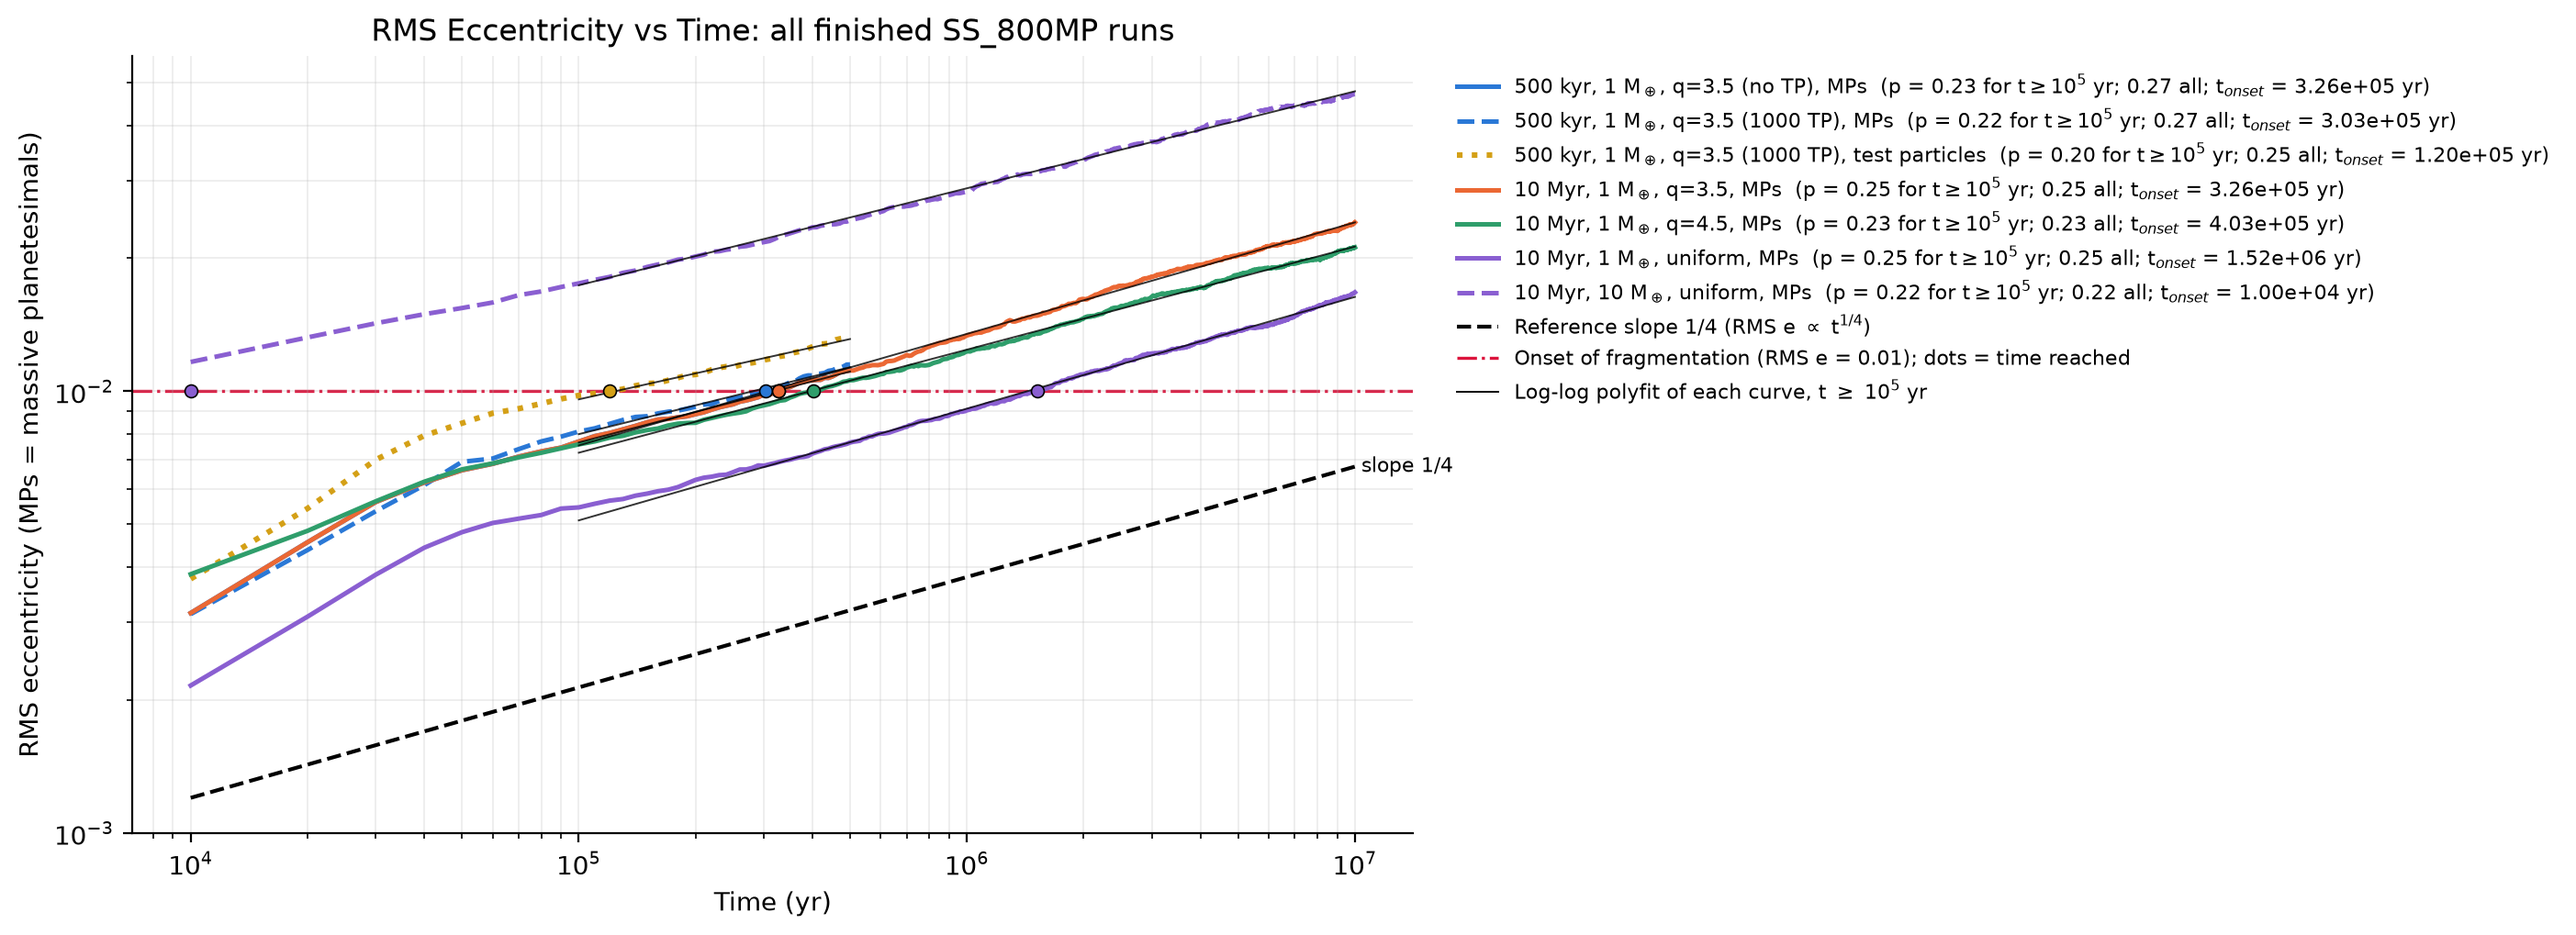
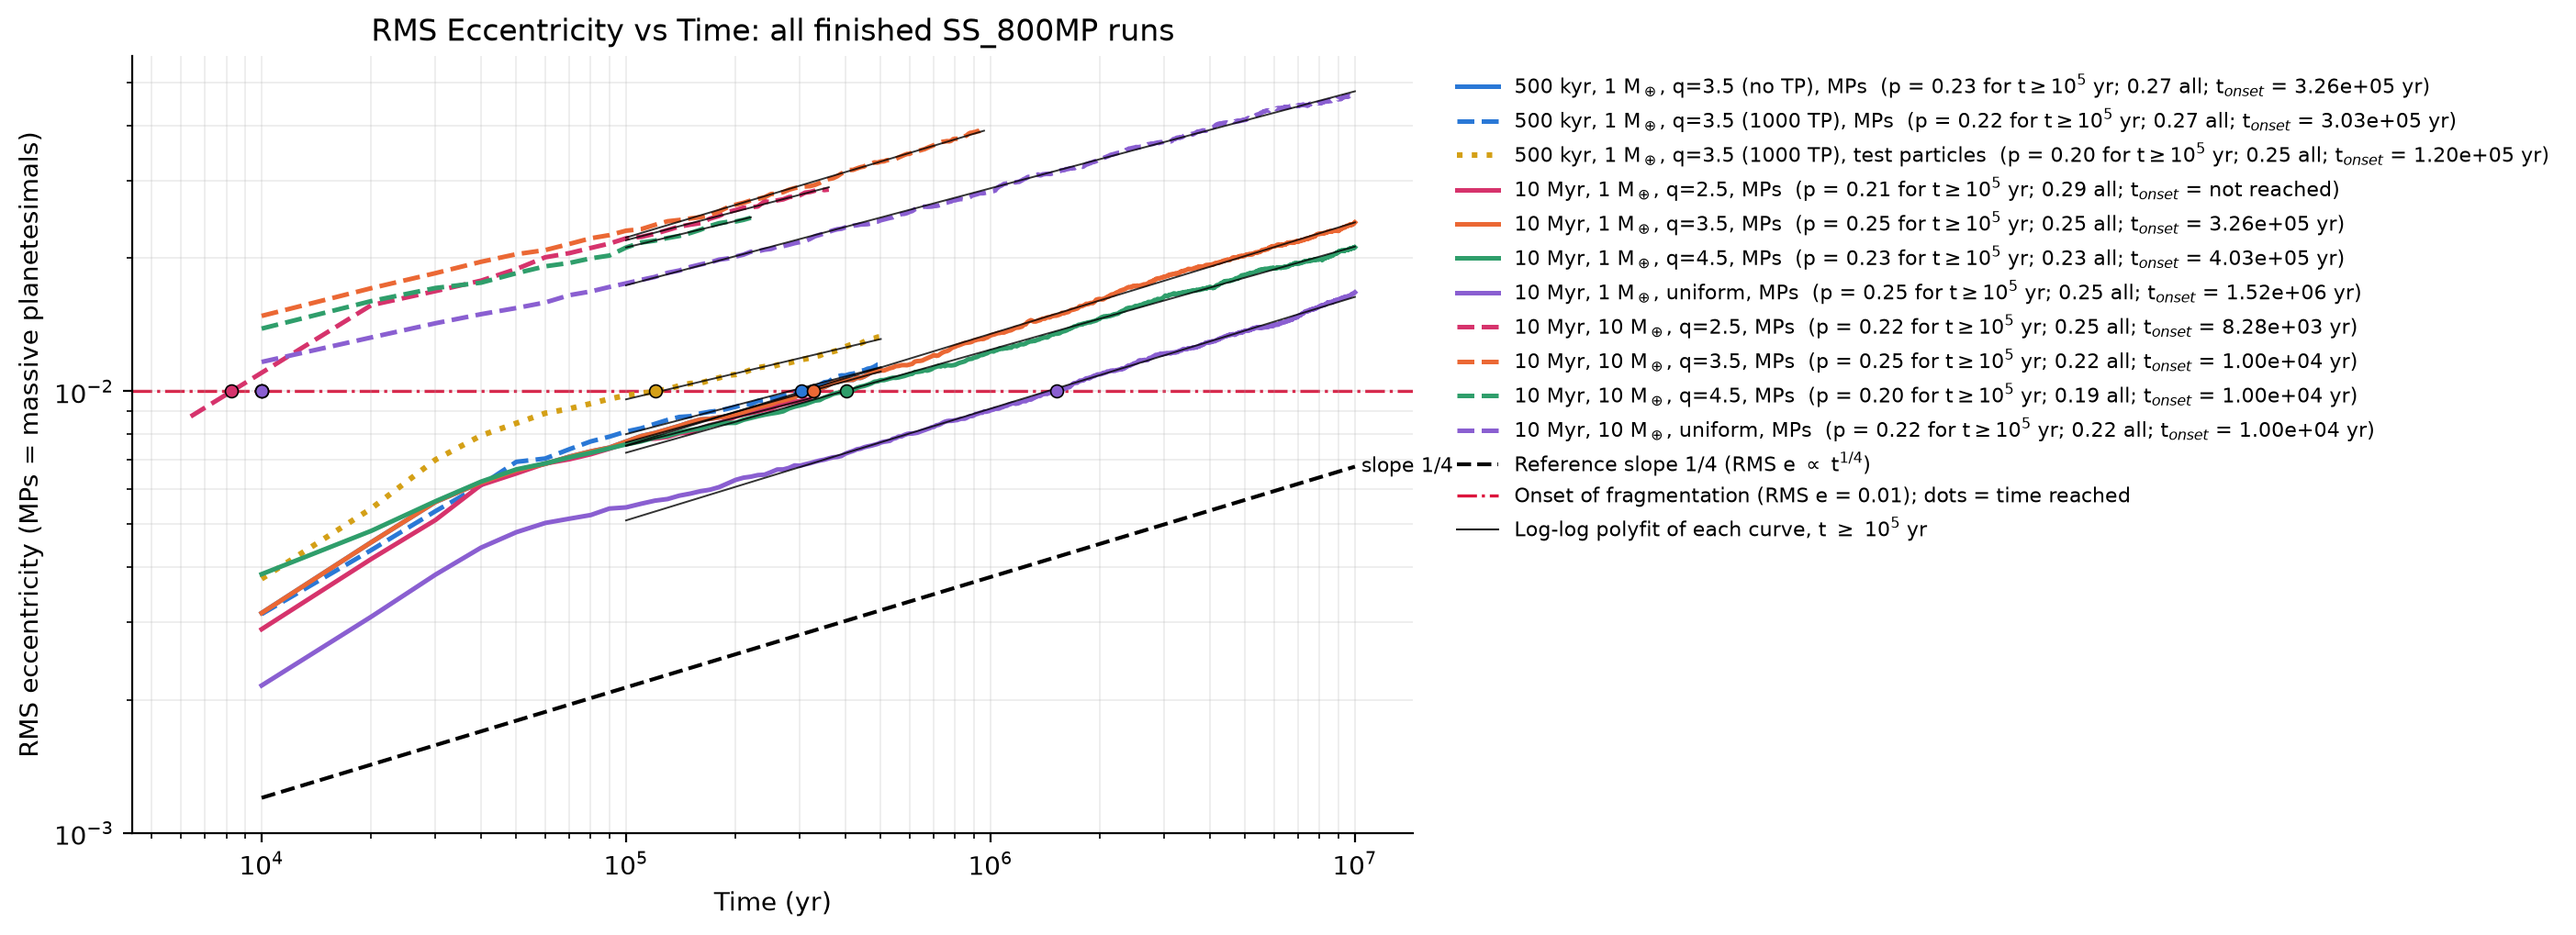
Add the new 10 Myr slope runs to the RMS e overlays and plot the 100 Myr q runs separately
Adds the 10 Myr q=2.5 (1 and 10 M_earth) and 10 M_earth q=3.5/4.5 runs to the
overlay (several are still partial), and puts the 100 Myr SS_800MP q=3/3.5/4/5
runs in their own figure since their RMS e is 1e-5 .. 1e-3. Each archive is
now read once per script run.

diff --git a/calibration/plot_all_rms_e_overlay.py b/calibration/plot_all_rms_e_overlay.py
@@ -10,8 +10,10 @@ bodies the C_e diagnostic excludes; see src/utilities/rayleigh_cut.py). Runs
 with test particles also get a dotted curve for the test-particle RMS e
 (all surviving test particles, no cut).
 
-A second figure adds the 100 Myr SS_100MP 10x / 30x / 50x Stir runs to the same
-curves.
+A second figure adds the 100 Myr SS_100MP 10x / 30x / 50x Stir runs to the same curves.
+
+A third figure shows the 100 Myr SS_800MP q=3 / 3.5 / 4 / 5 runs on their own (their RMS e
+is 1e-5 .. 1e-3, far below the others).
 
 Every curve is fitted as e = A t^p (degree-1 log-log polyfit; thin black line = fit for
 t >= 1e5 yr, legend gives p for t >= 1e5 yr and for the whole run) and a dashed reference line of slope 1/4 is drawn.
@@ -21,6 +23,7 @@ it first reaches it and the time is given in the legend and the fit table.
 
 Writes: calibration/rms_e_all_runs_overlay.png
         calibration/rms_e_all_runs_plus_stir_overlay.png
+        calibration/rms_e_100Myr_800MP_slopes_overlay.png
         calibration/rms_e_all_runs_fits.md
 """
 
@@ -50,9 +53,13 @@ OUT_DIR = Path(__file__).resolve().parent
 RUNS = {
     "SS_800MP_500kyr_1Mearth_slopeq3.5": ("500 kyr, 1 M$_\\oplus$, q=3.5 (no TP), MPs", "#2a78d6", "-"),
     "SS_800MP_1000TP_500kyr_1Mearth_slopeq3.5": ("500 kyr, 1 M$_\\oplus$, q=3.5 (1000 TP), MPs", "#2a78d6", "--"),
+    "SS_800MP_10Myr_1Mearth_slopeq2.5": ("10 Myr, 1 M$_\\oplus$, q=2.5, MPs", "#d6336c", "-"),
     "SS_800MP_10Myr_1Mearth_slopeq3.5": ("10 Myr, 1 M$_\\oplus$, q=3.5, MPs", "#eb6834", "-"),
     "SS_800MP_10Myr_1Mearth_slopeq4.5": ("10 Myr, 1 M$_\\oplus$, q=4.5, MPs", "#2f9e6b", "-"),
     "SS_800MP_10Myr_1Mearth_uniform": ("10 Myr, 1 M$_\\oplus$, uniform, MPs", "#8a5fd1", "-"),
+    "SS_800MP_10Myr_10Mearth_slopeq2.5": ("10 Myr, 10 M$_\\oplus$, q=2.5, MPs", "#d6336c", "--"),
+    "SS_800MP_10Myr_10Mearth_slopeq3.5": ("10 Myr, 10 M$_\\oplus$, q=3.5, MPs", "#eb6834", "--"),
+    "SS_800MP_10Myr_10Mearth_slopeq4.5": ("10 Myr, 10 M$_\\oplus$, q=4.5, MPs", "#2f9e6b", "--"),
     "SS_800MP_10Myr_10Mearth_uniform": ("10 Myr, 10 M$_\\oplus$, uniform, MPs", "#8a5fd1", "--"),
 }
 
@@ -61,6 +68,15 @@ STIR_RUNS = {
     "SS_100MP_100Myr_10xStir": ("100 Myr, 10x Stir, MPs", "#c9302c", "-"),
     "SS_100MP_100Myr_30xStir": ("100 Myr, 30x Stir, MPs", "#7a4a2b", "-"),
     "SS_100MP_100Myr_50xStir": ("100 Myr, 50x Stir, MPs", "#4a4a4a", "-"),
+}
+
+# 100 Myr SS_800MP radius-slope runs (unrescaled masses, ~1e-5 M_earth disks):
+# RMS e stays 1e-5 .. 1e-3, so they get their own figure.
+SLOPE_100MYR_RUNS = {
+    "SS_800MP_100Myr_slopeq3": ("100 Myr, 800 MPs, q=3, MPs", "#1b9e9e", "-."),
+    "SS_800MP_100Myr_slopeq3.5": ("100 Myr, 800 MPs, q=3.5, MPs", "#a6761d", "-."),
+    "SS_800MP_100Myr_slopeq4": ("100 Myr, 800 MPs, q=4, MPs", "#1f2d7a", "-."),
+    "SS_800MP_100Myr_slopeq5": ("100 Myr, 800 MPs, q=5, MPs", "#c2185b", "-."),
 }
 
 
@@ -106,18 +122,31 @@ def plot_with_fit(ax, t, y, label, colour, linestyle, linewidth, fits):
             linestyle="-", linewidth=0.7, alpha=0.8, zorder=5)
 
 
-def make_figure(runs, out_name, title):
-    fig, ax = plt.subplots(figsize=(9, 5.5))
-    fits = []
+_CURVE_CACHE = {}
 
-    for run, (label, colour, linestyle) in runs.items():
+
+def load_curves(run):
+    """(df, t, rms_cut) for a run, read from its archive once per script run."""
+    if run not in _CURVE_CACHE:
         run_dir = OUTPUTS / run
         config = read_config(str(run_dir / "config.yaml"))
         nsigma = cut_nsigma_from_config(config)
         df = build_snapshot_table(run_dir / f"{run}.bin")
         t, _, rms_cut, _ = rms_eccentricity_rayleigh_cut(
             df, float(config["disk"]["emax"]), nsigma)
+        _CURVE_CACHE[run] = (df, t, rms_cut)
+    return _CURVE_CACHE[run]
+
+
+def make_figure(runs, out_name, title):
+    fig, ax = plt.subplots(figsize=(9, 5.5))
+    fits = []
+    t_end = 1e7
+
+    for run, (label, colour, linestyle) in runs.items():
+        df, t, rms_cut = load_curves(run)
         keep = t > 0  # log axis
+        t_end = max(t_end, float(t[keep][-1]))
         plot_with_fit(ax, t[keep], rms_cut[keep], label, colour, linestyle, 1.8, fits)
         if (df["role"] == "test_particle").any():
             rms_tp = rms_by_snapshot(df, "test_particle", "e")
@@ -129,7 +158,7 @@ def make_figure(runs, out_name, title):
         print(f"{run}: final RMS e = {rms_cut[-1]:.4e}")
 
     # reference slope 1/4 (Krivov & Booth 2018 viscous stirring, RMS e ~ t^(1/4))
-    t_ref = np.array([1e4, ax.get_xlim()[1] if False else 1e7])
+    t_ref = np.array([1e4, t_end])
     ax.plot(t_ref, 1.2e-3 * (t_ref / 1e4) ** 0.25, color="black", linestyle="--",
             linewidth=1.5, label="Reference slope 1/4 (RMS e $\\propto$ t$^{1/4}$)")
     ax.text(t_ref[1], 1.2e-3 * (t_ref[1] / 1e4) ** 0.25, " slope 1/4", va="center",
@@ -174,7 +203,9 @@ def main():
                 "RMS Eccentricity vs Time: all finished SS_800MP runs")
     all_fits = make_figure({**RUNS, **STIR_RUNS}, "rms_e_all_runs_plus_stir_overlay.png",
                            "RMS Eccentricity vs Time: SS_800MP runs + 10x / 30x / 50x Stir")
-    write_fit_table(all_fits)
+    slope_fits = make_figure(SLOPE_100MYR_RUNS, "rms_e_100Myr_800MP_slopes_overlay.png",
+                             "RMS Eccentricity vs Time: 100 Myr SS_800MP q = 3 / 3.5 / 4 / 5")
+    write_fit_table(all_fits + slope_fits)
 
 
 if __name__ == "__main__":

diff --git a/calibration/rms_e_all_runs_fits.md b/calibration/rms_e_all_runs_fits.md
@@ -7,10 +7,18 @@ Written by plot_all_rms_e_overlay.py.
 | 500 kyr, 1 M$_\oplus$, q=3.5 (no TP), MPs | 0.230 | 5.430e-04 | 0.267 | 3.423e-04 | 3.262e+05 |
 | 500 kyr, 1 M$_\oplus$, q=3.5 (1000 TP), MPs | 0.217 | 6.580e-04 | 0.275 | 3.188e-04 | 3.030e+05 |
 | 500 kyr, 1 M$_\oplus$, q=3.5 (1000 TP), test particles | 0.195 | 1.011e-03 | 0.249 | 5.178e-04 | 1.201e+05 |
+| 10 Myr, 1 M$_\oplus$, q=2.5, MPs | 0.213 | 6.465e-04 | 0.293 | 2.462e-04 | not reached |
 | 10 Myr, 1 M$_\oplus$, q=3.5, MPs | 0.252 | 4.119e-04 | 0.254 | 4.028e-04 | 3.262e+05 |
 | 10 Myr, 1 M$_\oplus$, q=4.5, MPs | 0.233 | 4.940e-04 | 0.232 | 5.009e-04 | 4.031e+05 |
 | 10 Myr, 1 M$_\oplus$, uniform, MPs | 0.253 | 2.769e-04 | 0.253 | 2.786e-04 | 1.519e+06 |
+| 10 Myr, 10 M$_\oplus$, q=2.5, MPs | 0.216 | 1.838e-03 | 0.250 | 1.212e-03 | 8.280e+03 |
+| 10 Myr, 10 M$_\oplus$, q=3.5, MPs | 0.246 | 1.308e-03 | 0.222 | 1.791e-03 | 1.000e+04 |
+| 10 Myr, 10 M$_\oplus$, q=4.5, MPs | 0.199 | 2.132e-03 | 0.187 | 2.454e-03 | 1.000e+04 |
 | 10 Myr, 10 M$_\oplus$, uniform, MPs | 0.220 | 1.386e-03 | 0.218 | 1.431e-03 | 1.000e+04 |
 | 100 Myr, 10x Stir, MPs | 0.212 | 1.391e-03 | 0.213 | 1.373e-03 | 2.438e+04 |
 | 100 Myr, 30x Stir, MPs | 0.197 | 2.835e-03 | 0.197 | 2.809e-03 | 1.000e+04 |
 | 100 Myr, 50x Stir, MPs | 0.228 | 2.089e-03 | 0.227 | 2.117e-03 | 1.000e+04 |
+| 100 Myr, 800 MPs, q=3, MPs | 0.290 | 3.804e-06 | 0.296 | 3.429e-06 | not reached |
+| 100 Myr, 800 MPs, q=3.5, MPs | 0.354 | 6.349e-07 | 0.356 | 6.155e-07 | not reached |
+| 100 Myr, 800 MPs, q=4, MPs | 0.344 | 1.635e-07 | 0.337 | 1.838e-07 | not reached |
+| 100 Myr, 800 MPs, q=5, MPs | 0.120 | 2.937e-06 | 0.117 | 3.117e-06 | not reached |
